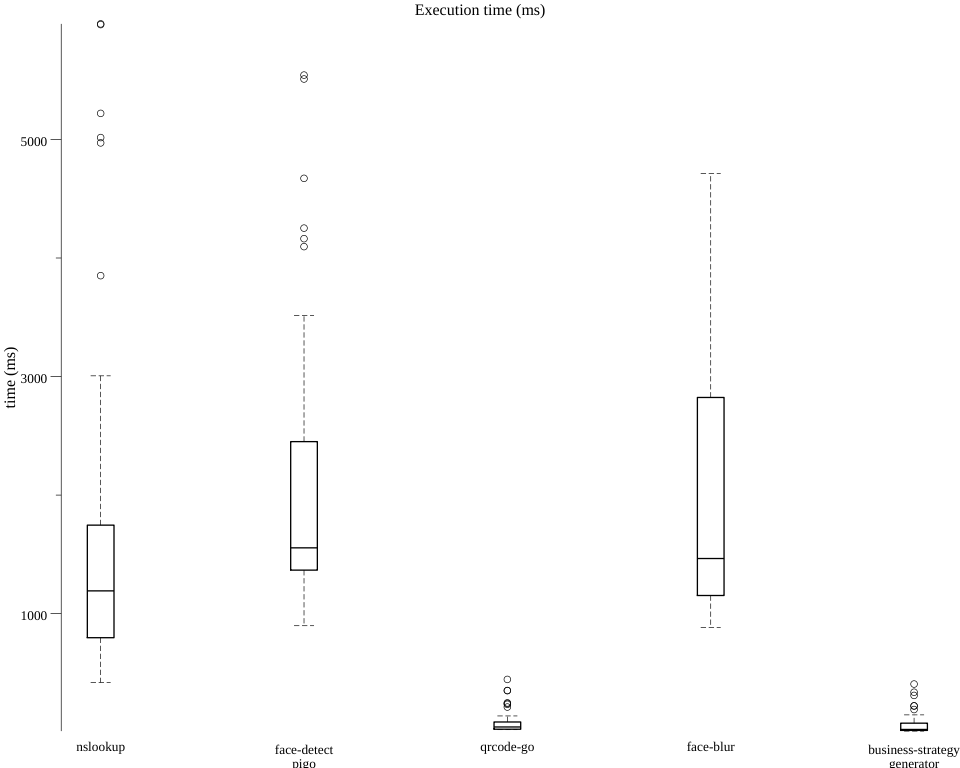
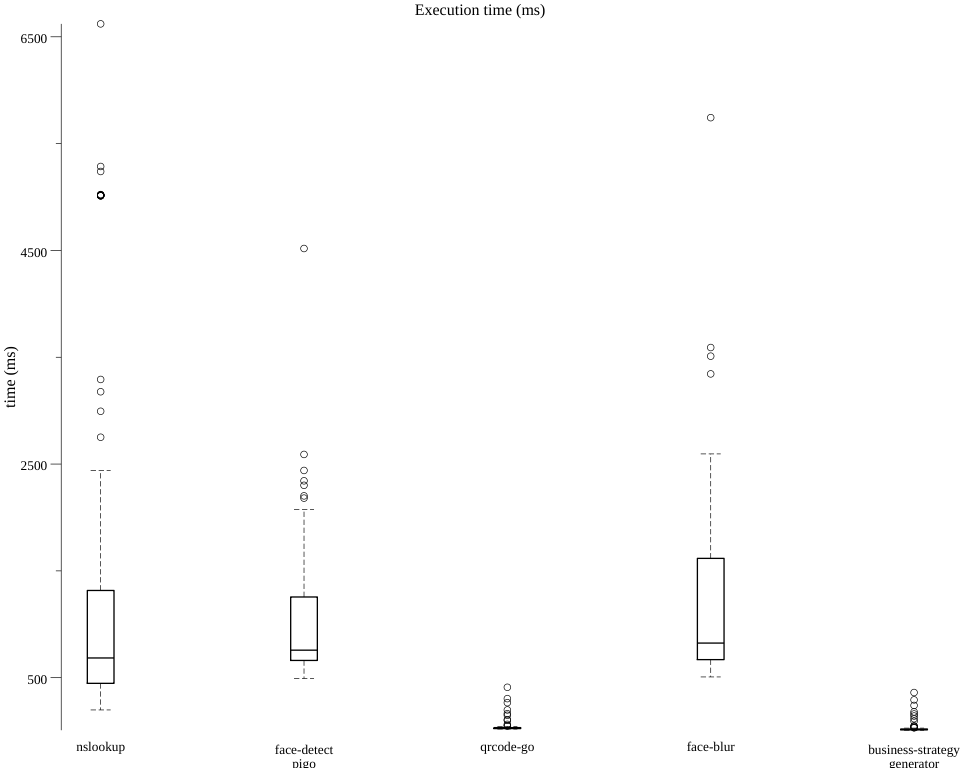
add make requst times

diff --git a/main.go b/main.go
@@ -15,15 +15,17 @@ import(
 	"gonum.org/v1/plot/vg"
 	"sort"
 	// "image/color"
-
+	"bufio"
+	"os"
 
 	"gonum.org/v1/gonum/stat/distuv"
 )
 
 const (
 	// TestTime = 5
-	RequestTimePoissonLambda = 30
-	NumberOfRequests = 30
+	RequestTimePoissonLambda = 100
+	NumberOfRequests = 100
+	NumberOfTests = 5
 )
 
 type Function struct {
@@ -39,57 +41,70 @@ var functions []Function
 
 func main() {
    
-    // executionTime := sendPostRequest(functions[0], "google.com")
 	functions = initialize()
-	maxTime := largest(functions[0].requestTime)
-	for i := range functions {
-		temp := largest(functions[i].requestTime)
-		if temp > maxTime {
-			maxTime = temp
-		}
-	}
-	
-	counter := 0
+	testCounter := 0
 	for {
-		for i, f := range functions {
-			for j := range f.requestTime {
-				if j == counter {
-					if i== 4 {
-						go sendPostRequest(i, f.url, f.inputs[rand.Intn(len(f.inputs) - 0) + 0]+strconv.Itoa(j))
-					} else {
-						go sendPostRequest(i, f.url, f.inputs[rand.Intn(len(f.inputs) - 0) + 0])
-					}
-					
-				}
+		fmt.Println("============ Test Number ",testCounter, "===========")
+		maxTime := largest(functions[0].requestTime)
+		for i := range functions {
+			temp := largest(functions[i].requestTime)
+			if temp > maxTime {
+				maxTime = temp
 			}
 		}
-		time.Sleep(100*time.Millisecond)
-		counter++
-		if counter > maxTime {
+		
+		counter := 0
+		for {
+			for i, f := range functions {
+				for j := range f.requestTime {
+					if j == counter {
+						if i== 4 {
+							go sendPostRequest(i, f.url, f.inputs[rand.Intn(len(f.inputs) - 0) + 0]+strconv.Itoa(j))
+						} else {
+							go sendPostRequest(i, f.url, f.inputs[rand.Intn(len(f.inputs) - 0) + 0])
+						}
+						
+					}
+				}
+			}
+			time.Sleep(100*time.Millisecond)
+			counter++
+			if counter > maxTime {
+				break
+			}
+		}
+		time.Sleep(15000*time.Millisecond)
+		for i, f := range functions {
+			fmt.Println("============  ",i, "===========")
+			fmt.Println("Execution time:", f.executionsTime)
+		}
+		plotBox("ExecutionTime_Test"+strconv.Itoa(testCounter)+".png" );
+		reportTestResult();
+		testCounter++
+		if testCounter == NumberOfTests {
 			break
 		}
+		fmt.Print("Press 'Enter' to continue...")
+        bufio.NewReader(os.Stdin).ReadBytes('\n') 
+		makeRequestTimes() 
+		clearExecutionTime()
 	}
-	time.Sleep(15000*time.Millisecond)
-	for i, f := range functions {
-		fmt.Println("============  ",i, "===========")
-		fmt.Println("Execution time:", f.executionsTime)
-    }
-	plotBox();
-	reportResult();
+	
 	// fmt.Println("executionTime:", executionTime.Milliseconds())
 
 }
 
-func reportResult()  {
+
+
+func reportTestResult()  {
 	var worstCase []int
 	var average []int
 	for j := 0; j < len(functions); j++ {
 		worstCase = append(worstCase,largestInt64(functions[j].executionsTime))
 		average = append(average,averageInt64(functions[j].executionsTime))
-		fmt.Println("============  ",j, "===========")
-		fmt.Println("Worst Case Execution time:", worstCase)
-		fmt.Println("Average Execution time:", average)
 	}
+	fmt.Println("Worst Case Execution time:", worstCase)
+	fmt.Println("Average Execution time:", average)
 }
 
 func sendPostRequest(index int, url string, data string) time.Duration  {
@@ -178,27 +193,41 @@ func initialize() []Function {
 	requestTime = makeRequestTime(RequestTimePoissonLambda)
 	sort.Ints(requestTime)
 	fmt.Println("Number of Requests: ", len(requestTime))
+	fmt.Println("============ 0 ============ ")
 	fmt.Println("requestTime: ", requestTime)
 	functions = append(functions, Function{url: "http://localhost:8080/function/nslookup", ips: 5, index: 0, inputs: websites, requestTime: requestTime} )
 	requestTime = makeRequestTime(RequestTimePoissonLambda)
 	sort.Ints(requestTime)
+	fmt.Println("============ 1 ============ ")
 	fmt.Println("requestTime: ", requestTime)
 	functions = append(functions, Function{url: "http://localhost:8080/function/face-detect-pigo", ips: 5, index: 0, inputs: images, requestTime: requestTime} )
 	requestTime = makeRequestTime(RequestTimePoissonLambda)
 	sort.Ints(requestTime)
+	fmt.Println("============ 2 ============ ")
 	fmt.Println("requestTime: ", requestTime)
 	functions = append(functions, Function{url: "http://localhost:8080/function/qrcode-go", ips: 5, index: 0, inputs: websites, requestTime: requestTime} )
 	requestTime = makeRequestTime(RequestTimePoissonLambda)
 	sort.Ints(requestTime)
+	fmt.Println("============ 3 ============ ")
 	fmt.Println("requestTime: ", requestTime)
 	functions = append(functions, Function{url: "http://localhost:8080/function/face-blur", ips: 5, index: 0, inputs: images, requestTime: requestTime} )
 	requestTime = makeRequestTime(RequestTimePoissonLambda)
 	sort.Ints(requestTime)
+	fmt.Println("============ 4 ============ ")
 	fmt.Println("requestTime: ", requestTime)
 	functions = append(functions, Function{url: "http://localhost:8080/function/business-strategy-generator", ips: 5, index: 0, inputs: websites, requestTime: requestTime} )
 
     
 	return functions
+}
+
+func makeRequestTimes()  {
+	for j := 0; j < len(functions); j++ {
+		requestTime := makeRequestTime(RequestTimePoissonLambda)
+		functions[j].requestTime = requestTime
+		fmt.Println("============  ",j, "===========")
+		fmt.Println("requestTime: ", requestTime)
+	}
 }
 
 
@@ -245,6 +274,7 @@ func plotInfo()  {
 	}
 }
 
+
 // randomPoints returns some random x, y points.
 func randomPoints(n int) plotter.XYs {
 	pts := make(plotter.XYs, n)
@@ -259,7 +289,7 @@ func randomPoints(n int) plotter.XYs {
 	return pts
 }
 
-func plotBox()  {
+func plotBox(imageName string)  {
 	// Get some data to display in our plot.
 	rand.Seed(int64(0))
 	n := len(functions[0].executionsTime)
@@ -301,7 +331,7 @@ func plotBox()  {
 	p.NominalX("nslookup", "face-detect\npigo",
 		"qrcode-go", "face-blur", "business-strategy\ngenerator")
 
-	if err := p.Save(10*vg.Inch, 8*vg.Inch, "boxplot.png"); err != nil {
+	if err := p.Save(10*vg.Inch, 8*vg.Inch, imageName); err != nil {
 		panic(err)
 	}
 }
@@ -334,5 +364,10 @@ func largest(arr []int) int {
 	return int(sum/len(arr))
  }
  
+ func clearExecutionTime()  {
+	for i := 0; i < len(functions); i++ {
+		functions[i].executionsTime = functions[i].executionsTime[:0]
+	}
+ }
  
     
